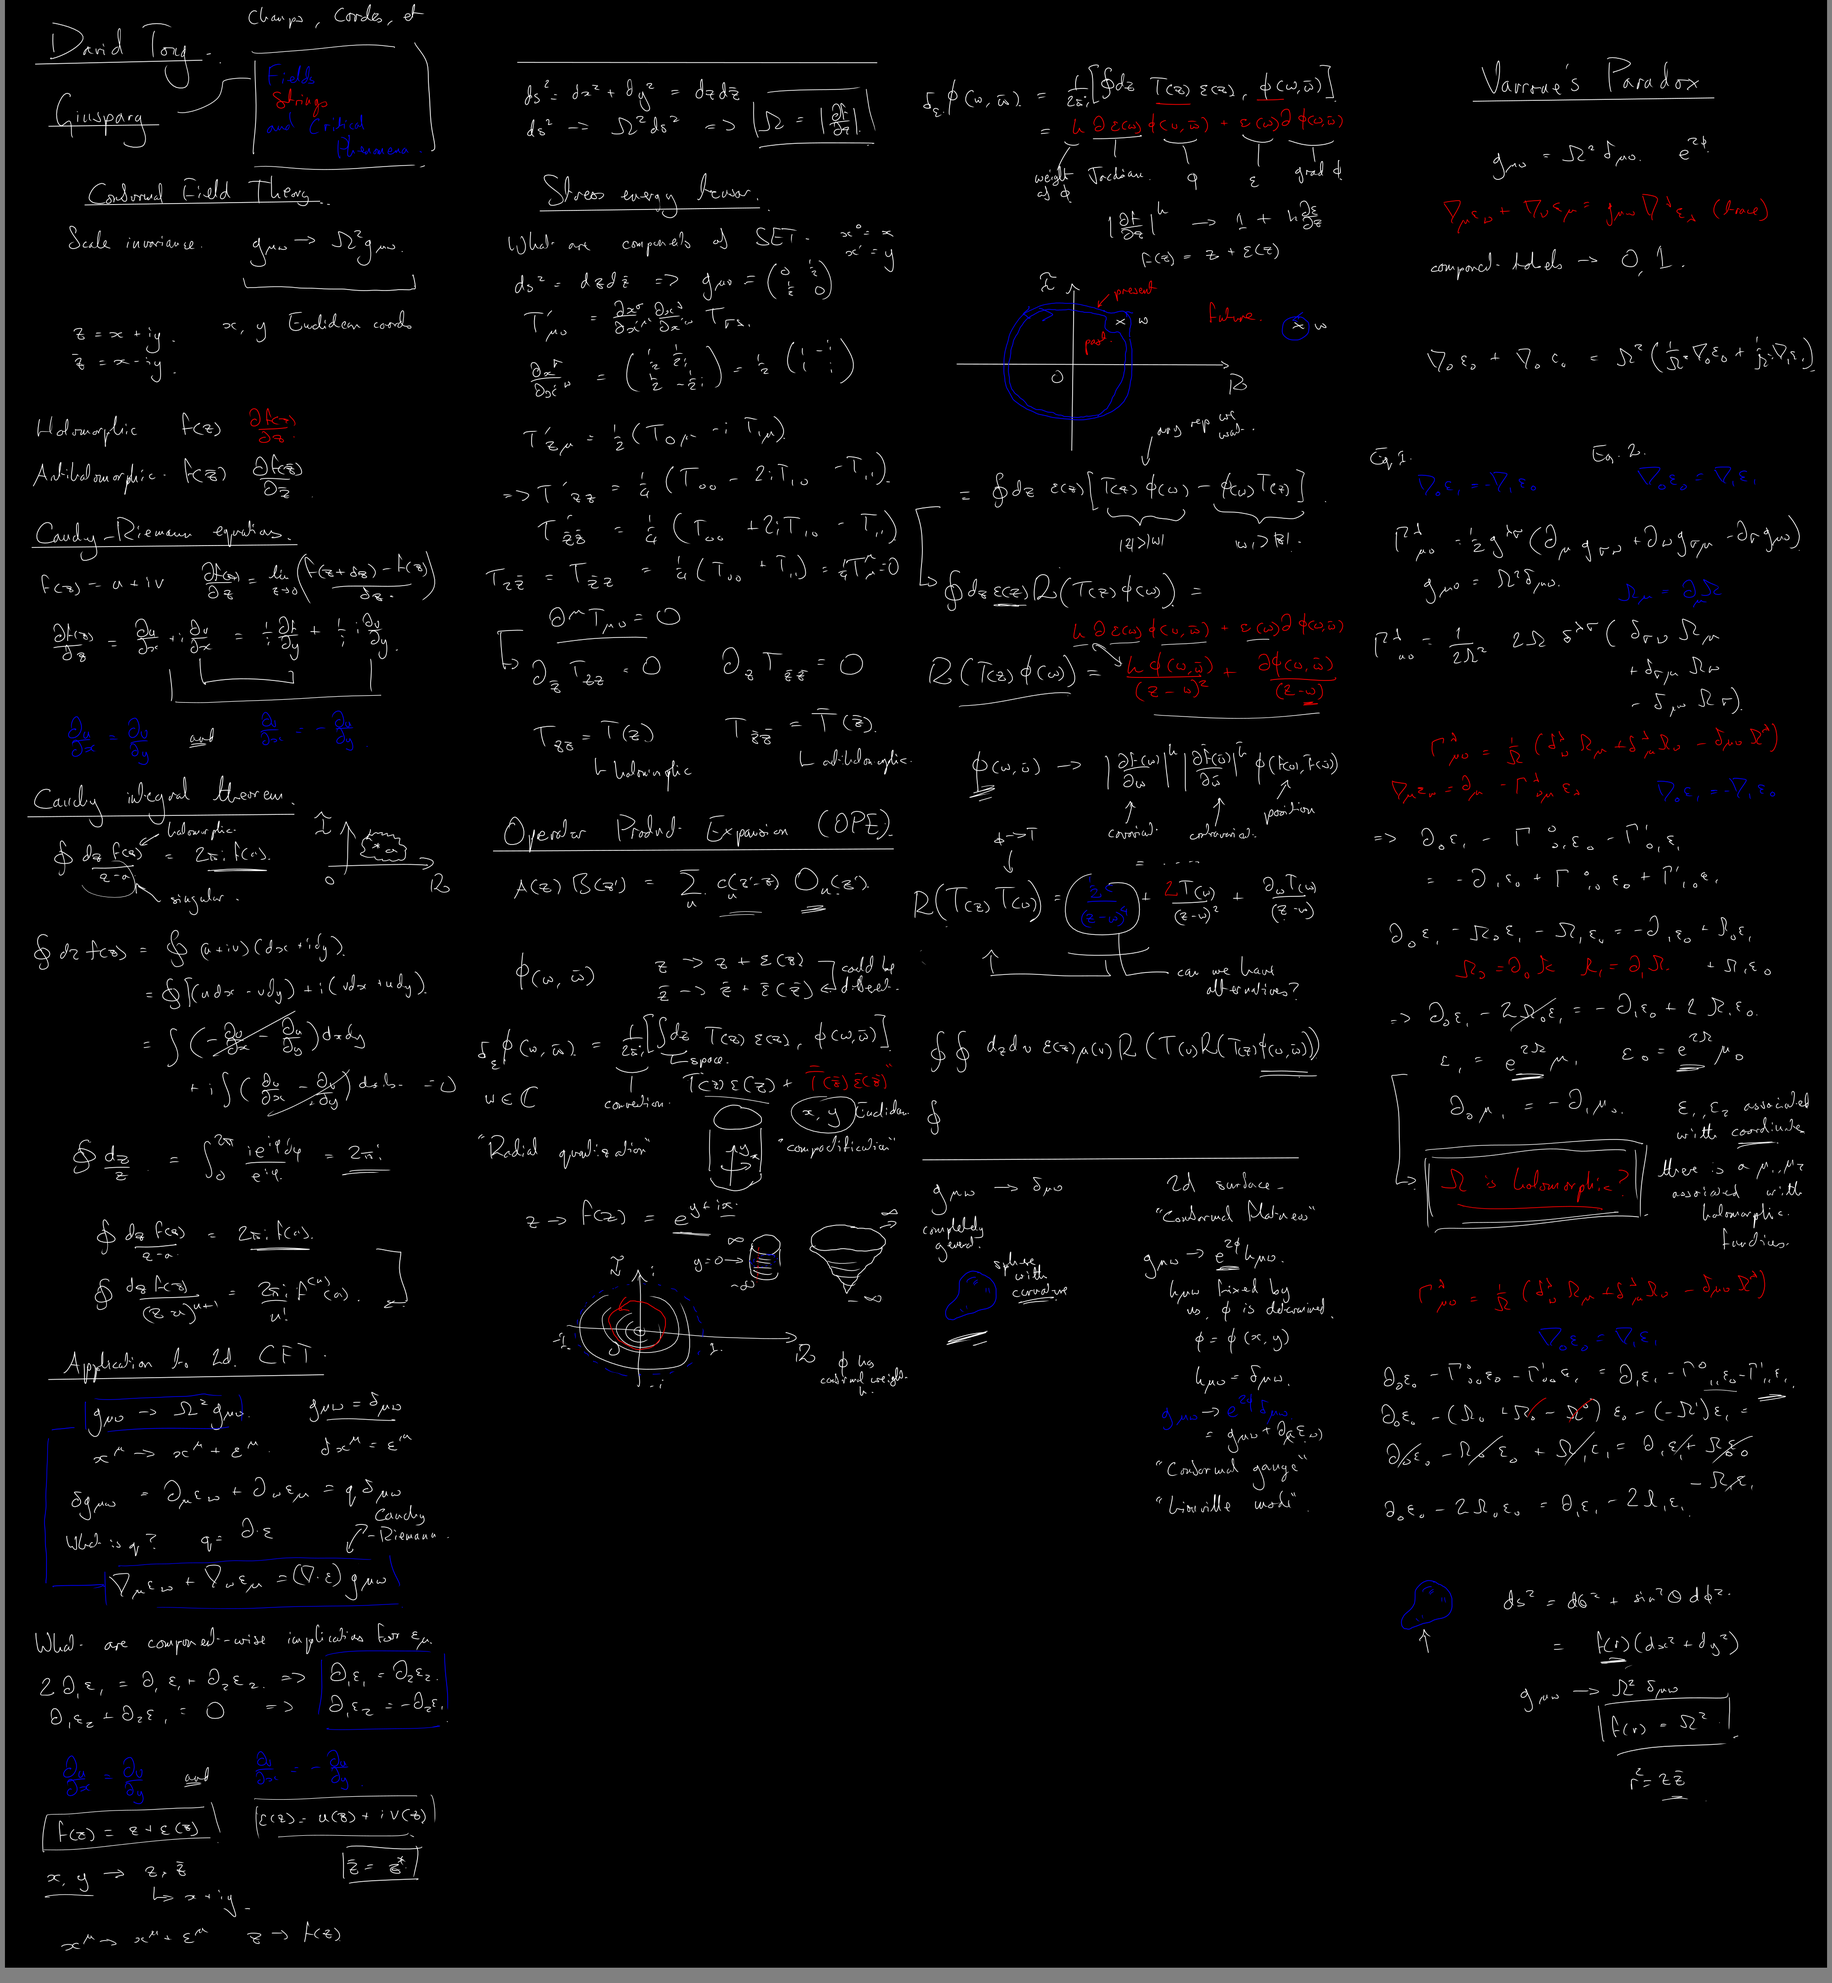
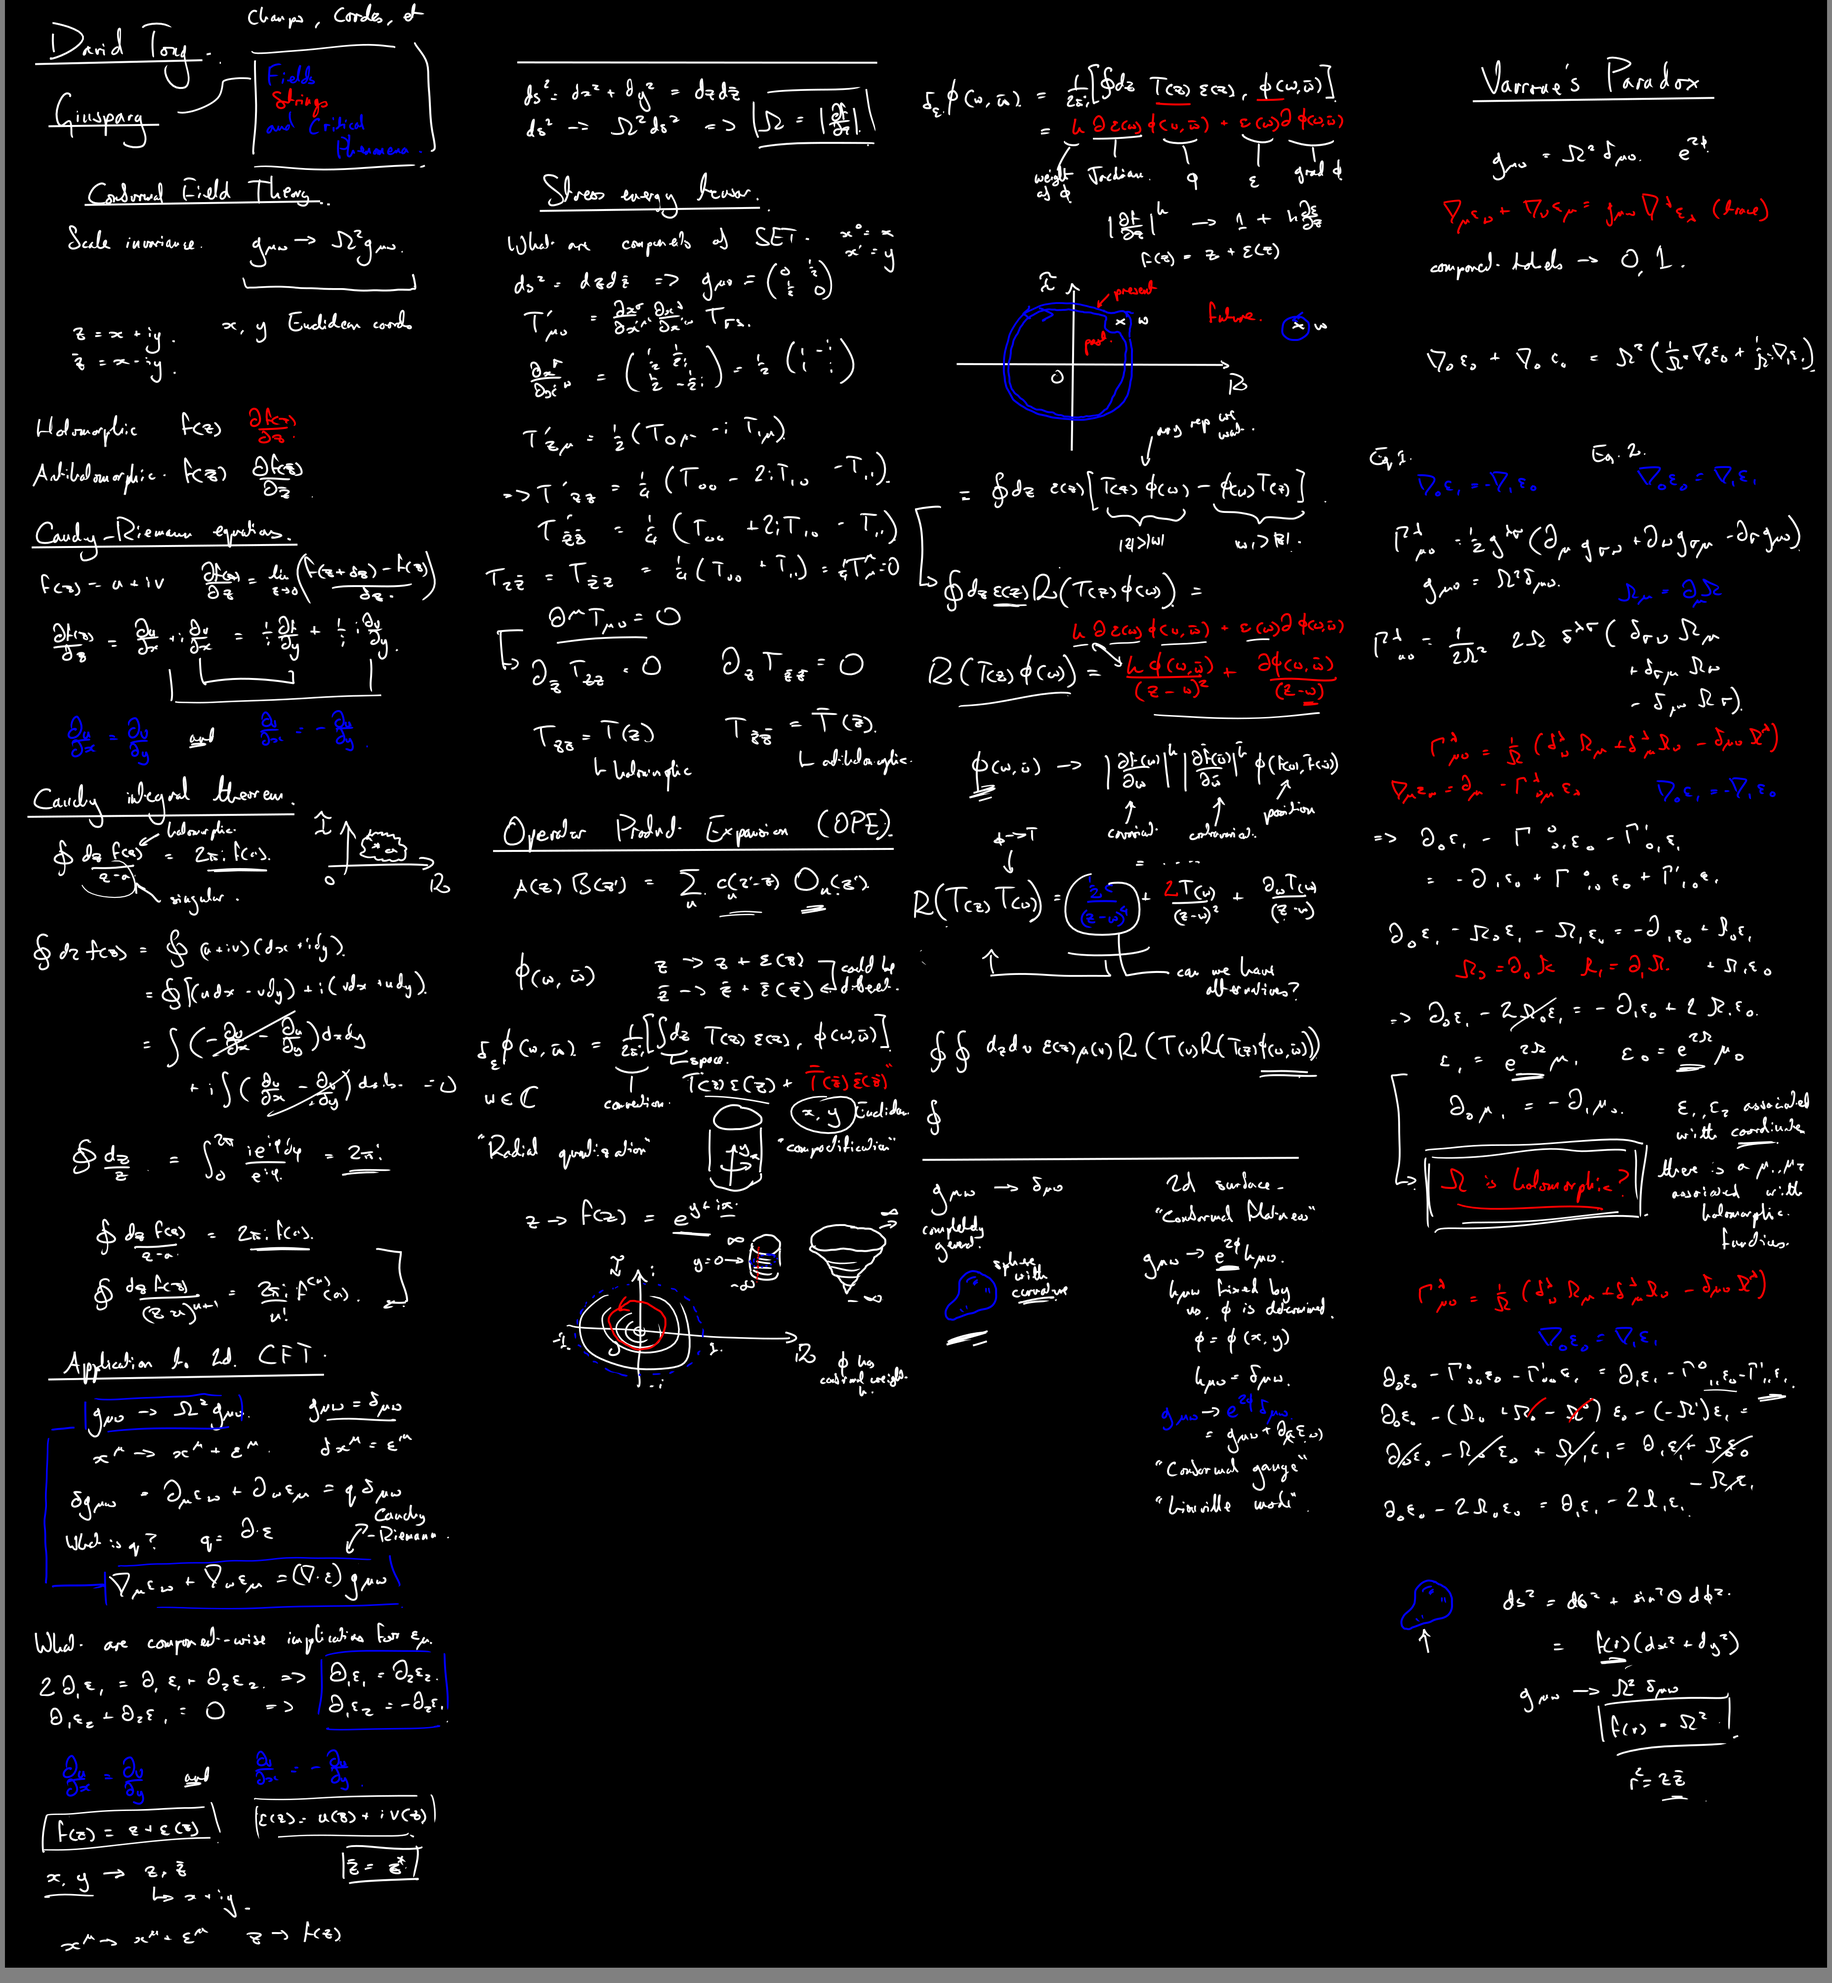
improved the line width of RAC notes

diff --git a/teaching.md b/teaching.md
@@ -190,6 +190,10 @@ Oscillating systems, complex notation, response functions, power transfer, \(Q\)
 <p>
 <img src="assets/teaching/methods_in_theoretical_physics/lecture-1.png" width="100%" oncontextmenu="return false;" />
 </p>
+<h3>Blackboard notes</h3>
+<p>
+<img src="assets/teaching/methods_in_theoretical_physics/group-1.png" width="100%" oncontextmenu="return false;" />
+</p>
 
 <h2>Relativistic Astrophysics and Cosmology</h2>
 <p>The "<i>Relativistic astrophysics and cosmology</i>" course is the Physics Department's idea of applied relativity, presented to fourth-year undergraduates. There are some good patches in the course, which was first constructed many years ago, and it is now improving with continued efforts by Dr. Handley.</p>
